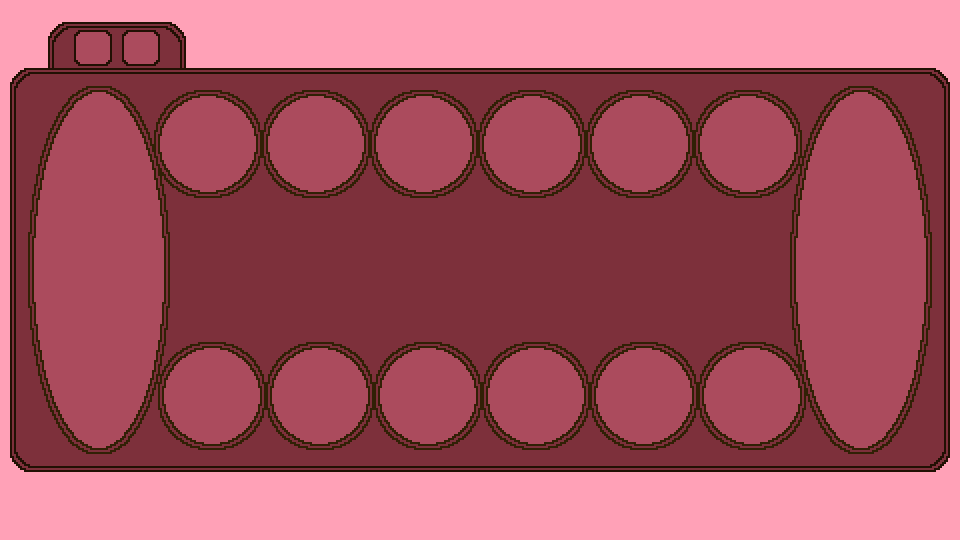
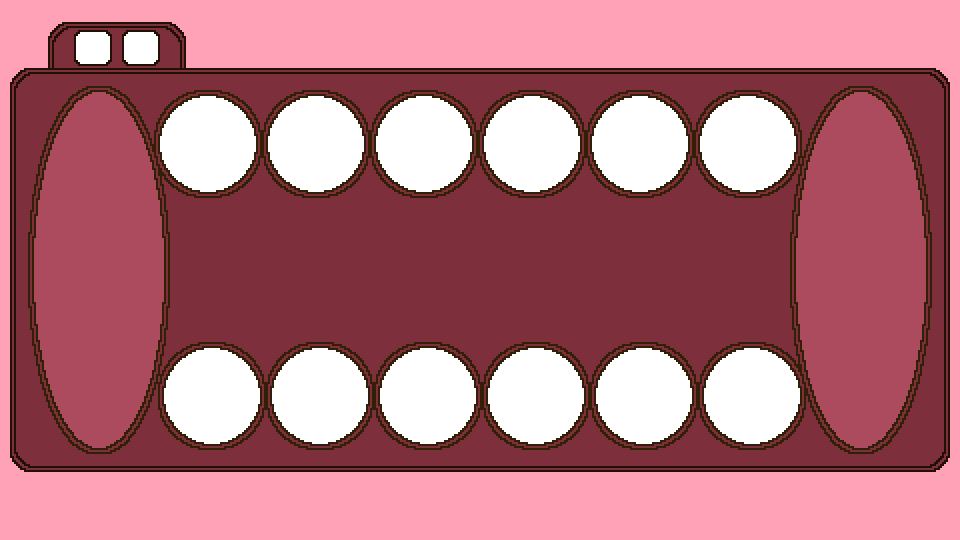
You can see the objects
-Clusters and Stones are in the window

Changed region(s): [[0.1562, 0.6222, 0.8438, 0.8296], [0.1562, 0.1778, 0.8438, 0.3556], [0.0625, 0.0593, 0.1875, 0.1185]]

diff --git a/objects.py b/objects.py
@@ -61,17 +61,125 @@ class GameObject(pygame.sprite.Sprite):
         pass
 
 
-class Stone():
+class Stone(GameObject):
     def __init__(self):
         self.path = "stone.png"
         
-        super().__init__(img_path=os.path.join("assets", "Mancala (Game)", self.path), x_scale=1, y_scale=1, orientation=0, **kwargs)
+        super().__init__(img_path = os.path.join("assets", "Mancala (Game)", self.path), x_scale=1, y_scale=1, orientation=0)
         self.rect = super().give_rect()
+
+    def add_position(self, x, y):
+        super().add_position(x, y)
+        self.pos = np.array([x, y])
+        self.x = x
+        self.y = y
+
+    def show(self):
+        super().show()
+
+    def hide(self):
+        super().hide()
+
+    def update(self):
+        super().update()
+
+
+class Cluster(GameObject):
+    def __init__(self, pos, stones=None, path="cluster.png", x=0, y=0):
+        super().__init__(img_path = os.path.join("assets", "Mancala (Game)", path), x=x, y=y)
+
+        if stones is None: stones = np.array([])
+        self.player_store = False
+        self.stones = stones
+        self.pos = pos
+
+    def add_position(self, x, y):
+        super().add_position(x, y)
+        self.pos = np.array([x, y])
+        self.x = x
+        self.y = y
+
+    def give_position(self):
+        return super().give_position()
+
+    def change_store(self):
+        self.player_store = True
+
+    def is_store(self):
+        return self.player_store
+    
+    def click_me(self):
+        mouse_position = pygame.mouse.get_pos()
+        if self.rect.collidepoint(mouse_position):
+            return True
+        else:
+            return False
+
+    def __str__(self):
+        return f"POS({self.pos}) - {self.stones}"
+
+    def __repr__(self):
+        return str(self)
+
+
+class Store(Cluster):
+    def __init__(self, *args, **kwargs):
+        self.path = "_.png"
+        super().__init__(path = self.path, *args, **kwargs)
+        super().change_store()
+
+    def is_store(self):
+        return super().is_store()
+    
+
+class Table():
+    def __init__(self):
+        self.clusters = self.__construct_clusters(n_stones=3)
+
+    def give_clusters(self):
+        return self.clusters
+
+    def __construct_clusters(self, n_clusters_pp=6, n_players=2, n_stones=3):
+        clusters = []
+        for j in range(n_players):
+            clusters += [Store((n_clusters_pp + 1)*j)]
+            clusters += [Cluster(1 + i + (n_clusters_pp + 1)*j, [Stone() for _ in range(n_stones)]) for i in range(n_clusters_pp)]
+
+        return clusters
+    
+    def stream_cluster(self, cluster_id, valid_store_id):
+        cluster = self.clusters[cluster_id]
+        n_clusters = len(self.clusters)
+
+        if len(cluster.stones) == 0: return
+        print("CLUSTER:", cluster)
+
+        idx = -1
+        offset = 0
+        limit = len(cluster.stones)
+        while idx > -limit - 1 + offset:
+            next_cluster = self.clusters[(cluster_id + idx)%n_clusters]
+            if next_cluster.is_store() and next_cluster.pos != valid_store_id:
+                offset -= 1
+            else:
+                next_cluster.stones.append(cluster.stones.pop())
+                print(f"Appending stones to: {next_cluster}, idx: {idx}")
+            idx -= 1
+
+        #for idx in range(-1, -len(cluster.stones) - 1, -1):
+            #next_cluster = self.clusters[(cluster_id + idx)%n_clusters]
+            #next_cluster.stones.append(cluster.stones.pop())
+            #print(f"Appending stones to: {next_cluster}, idx: {idx}")
+
+        return next_cluster
 
 
 class Player():
-    def __init__(self, num, manual=True):
-        self.dominoes = np.array([])
-        self.first_pick = True
-        self.manual = manual
-        self.num = num
+    def __init__(self, table: Table, store_id: int, cluster_ids: int):
+        self.store_id = store_id
+        self.cluster_ids = cluster_ids
+        self.table = table
+
+    def stream(self, cluster_id: int):
+        if cluster_id not in self.cluster_ids: return
+        return self.table.stream_cluster(cluster_id, self.store_id)

diff --git a/main.py b/main.py
@@ -1,6 +1,6 @@
-from objects import Player
 from pygame.sprite import Group as Layer
 from pygame.locals import *
+from objects import *
 import numpy as np
 import pygame
 import time
@@ -20,16 +20,114 @@ WINDOW.blit(BACKGROUND, (0, 0))
 
 OBJECTS = []
 LAYERS = {0: Layer()}
+FPS = 30
 
-PLAYERS = [Player(num) for num in range(2)]
-FPS = 60
+class Game:
+    def __init__(self, gameManager):
+        self.clock = pygame.time.Clock()
+        self.gameManager = gameManager
 
-
-class Table():
-    def __init__(self):
+        self.table = Table()
+        p1 = Player(self.table, 0, [i for i in range(1, 7)])
+        p2 = Player(self.table, 7, [i for i in range(8, 14)])
+        self.players = [p1, p2]
         self.turn = 0
-        self.spacing = 95
-        self.first_game = True
+
+    def get_current_player(self) -> Player:
+        return self.players[self.turn]
+    
+    def start_game(self):
+        self.draw_clusters()
+        self.draw_stones()
+
+    def draw_clusters(self):
+        global clusters
+        clusters = self.table.give_clusters()
+        
+        x_padding = 108
+        y_padding = 252
+        x, y = 208, 144
+        aux = 0
+        
+        for cluster in clusters:
+            if cluster not in OBJECTS:
+                OBJECTS.append(cluster)
+
+            if cluster.is_store():
+                pass
+
+            else:
+                cluster.add_position(x, y)
+                if aux == 5:
+                    x, y = 208 + 4, 144 + y_padding
+                    
+                else:
+                    x += x_padding
+
+                aux += 1
+
+    def draw_stones(self):
+        for cluster in clusters:
+            if cluster.is_store():
+                continue
+            
+            else:
+                x, y = cluster.give_position()
+                x, y = x - 21, y - 21
+                X, Y = x, y
+                y_padding = 24
+                aux = 0
+
+                for stone in cluster.stones:
+                    if stone not in OBJECTS:
+                        OBJECTS.append(stone)
+
+                    if aux == 3:
+                        x, y = X, Y
+                        y += y_padding
+                        
+                        y_padding += y_padding
+                        aux = 0
+
+                    stone.add_position(x, y)
+                    x += 24
+                    
+                    aux +=1
+                    
+    
+    def main(self):
+        self.gameManager.new_game()
+        self.start_game()
+        update_layers()
+
+        aux = 1
+        while self.gameManager.In_Game:
+            self.clock.tick(FPS)
+
+            for event in pygame.event.get():
+                if event.type == QUIT:
+                    pygame.quit()
+                    sys.exit()
+
+        #    print(f"\nTURNO {self.turn}")
+
+            #curr_player = self.get_current_player()
+
+            #while True:
+                #cluster_id = int(input("Cluster to stream: "))
+                #last_cluster = curr_player.stream(cluster_id)
+                #if last_cluster is not None: break
+                #print("Cluster invalido !!!!!!")
+            
+            #if last_cluster.pos == curr_player.store_id:
+                #print("Felicidades, otro turno!!!")
+                #continue
+            
+            #self.turn += 1
+            #if self.turn >= len(self.players): 
+                #self.turn = 0
+
+            update_layers()
 
 
 class GameManager():
@@ -63,21 +161,13 @@ def update_layers():
     pygame.display.update() 
 
 
-def main():
-    clock = pygame.time.Clock()
+def run():
+    global GameManager
     gameManager = GameManager()
-    gameManager.new_game()
 
-    while gameManager.In_Game:
-        clock.tick(FPS)
-
-        for event in pygame.event.get():
-            if event.type == QUIT:
-                pygame.quit()
-                sys.exit()
-
-        update_layers()
+    game = Game(gameManager)
+    game.main()
 
 
 if __name__ == '__main__':
-    main()
+    run()
